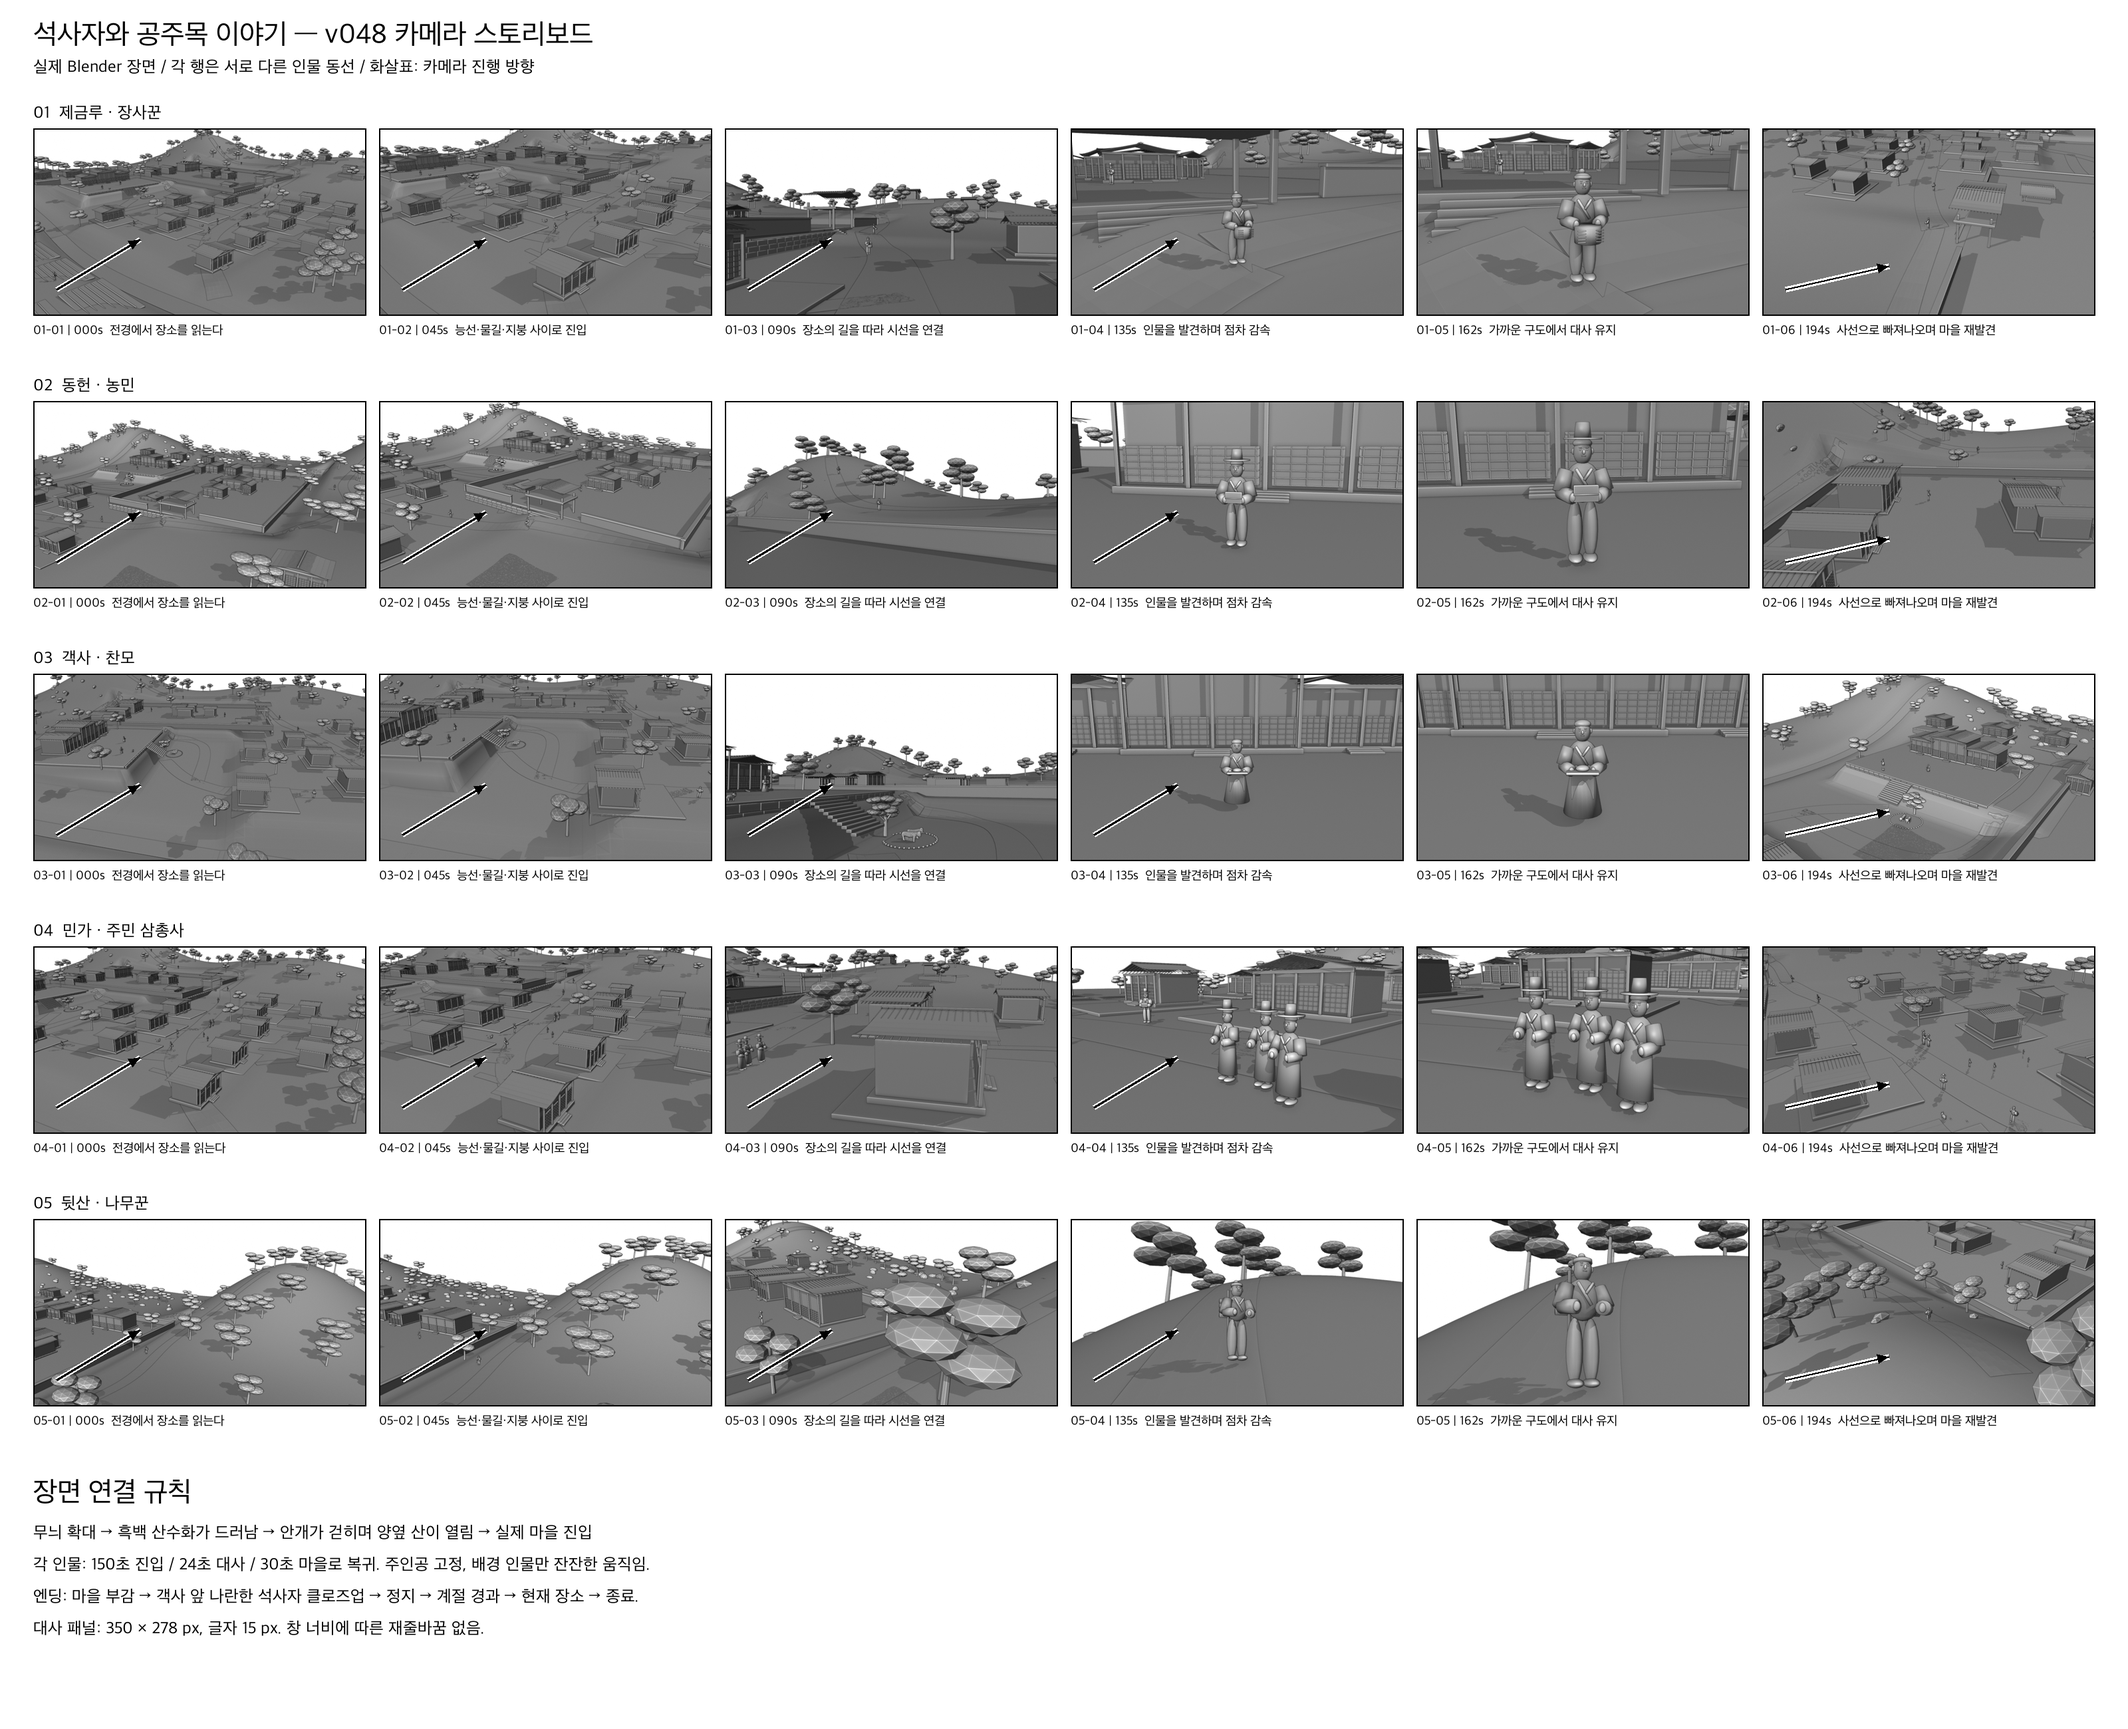
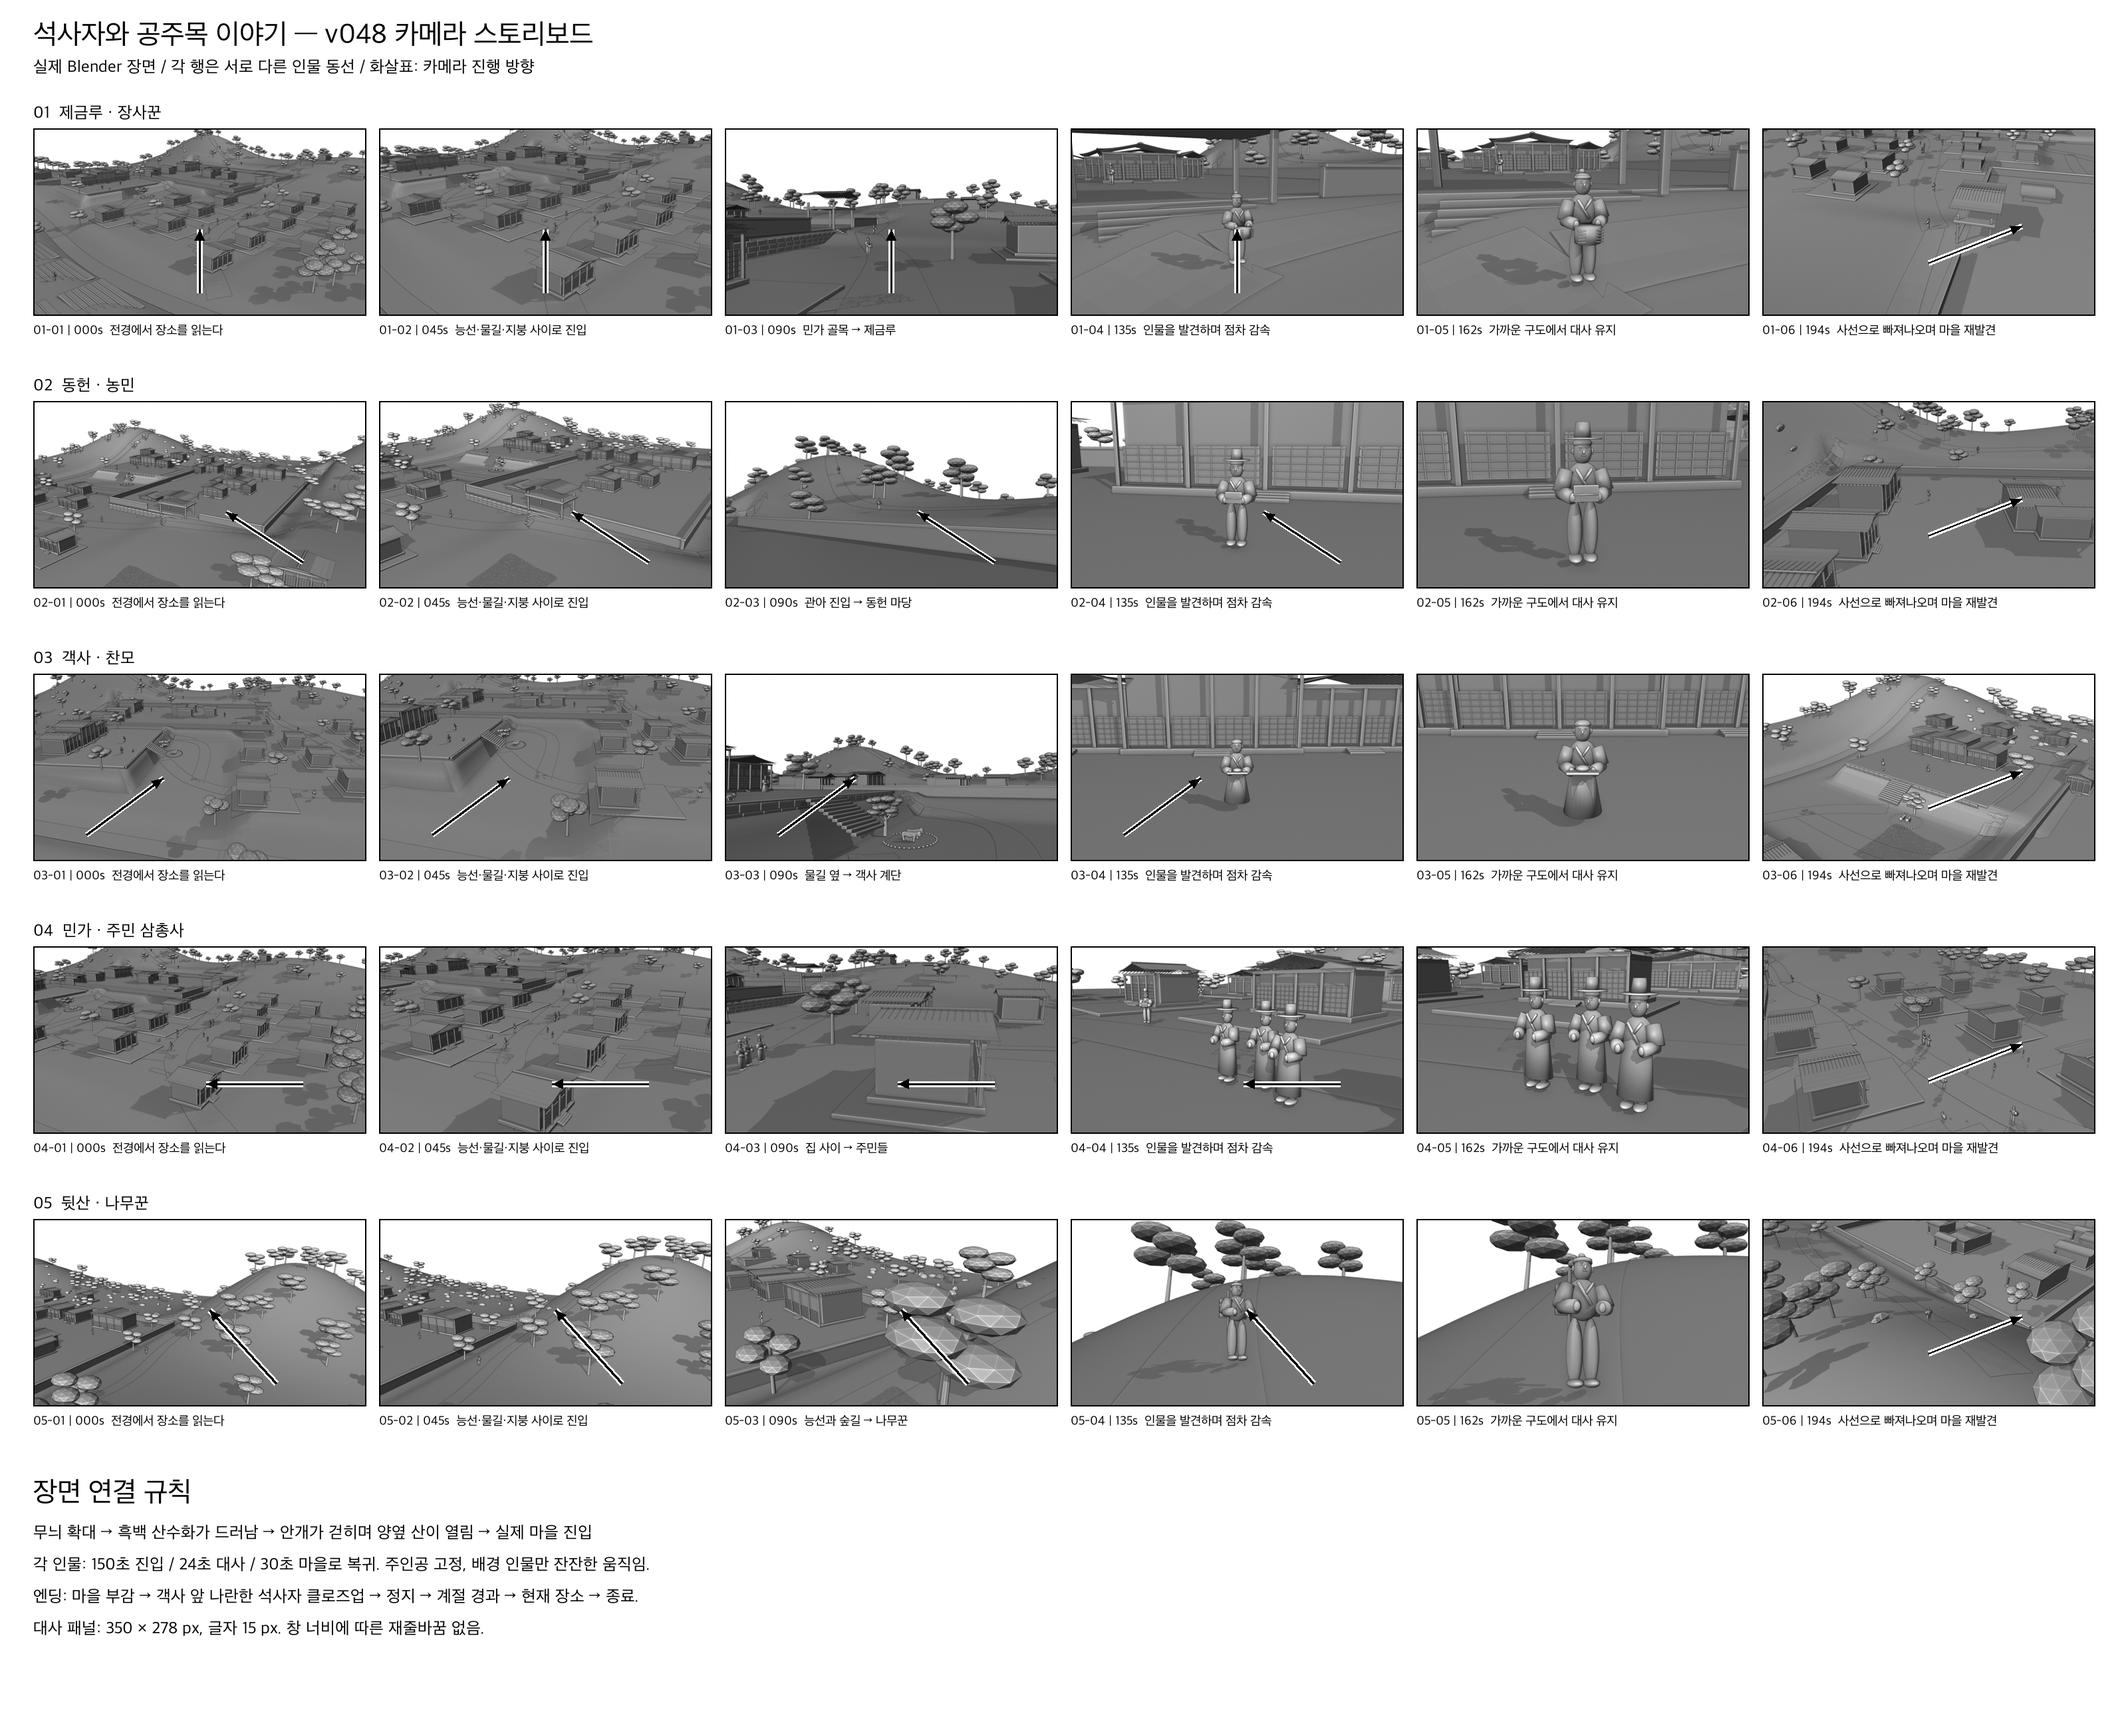
Refine storyboard direction arrows and story replay

diff --git a/versions/blender-v048/assets/cinematic-story.js b/versions/blender-v048/assets/cinematic-story.js
@@ -7,7 +7,7 @@ const lines=['그 근처에서 이상한 돌짐승 두 마리를 보았습니다
 const introductions=['이 문을 지나면 관아입니다. 나는 장에 물건을 내다 팔러 올 때면 이 앞을 지나곤 하지요.','나는 이곳에 논밭 일로 왔습니다. 내 땅이라고 생각했던 곳의 경계가 달라졌으니, 여기까지 와서 사정을 이야기해야 합니다.','객사에는 왕을 상징하는 궐패를 모시고, 먼 곳에서 온 관리들이 머무릅니다. 손님들 먹을거리를 마련하러 나는 이 앞을 오가지요.','우리에게 하루는 늘 비슷했습니다. 서로 투닥거리며 하루를 보내고 집으로 돌아가지요.','산에 올라 마을을 내려다보면 관아도 집도 길도 한눈에 들어옵니다. 떨어져 보이던 곳들이 하나로 이어지지요.'];
 let running=false,active=false,elapsed=0,last=0,chapter=-1;const seek=control.querySelector('#cinemaSeek');seek.oninput=()=>{elapsed=Number(seek.value);chapter=-1;renderStory();};const play=control.querySelector('#cinemaPlay'),stop=control.querySelector('#cinemaStop');
 function emit(name,detail){document.dispatchEvent(new CustomEvent(name,{detail}));}
-play.onclick=()=>{if(!active){active=true;elapsed=0;chapter=-1;document.body.classList.add('cinema-running');stop.hidden=false;seek.hidden=false;emit('stage-navigate','terrain');}running=!running;play.textContent=running?'일시 정지':'이어서 재생';};
+play.onclick=()=>{if(elapsed>=1254)active=false;if(!active){active=true;elapsed=0;chapter=-1;document.body.classList.add('cinema-running');stop.hidden=false;seek.hidden=false;emit('stage-navigate','terrain');}running=!running;play.textContent=running?'일시 정지':'이어서 재생';};
 stop.onclick=()=>{active=running=false;panel.hidden=true;stop.hidden=true;seek.hidden=true;play.textContent='스토리 재생';document.body.classList.remove('cinema-running','surface-morph');emit('story-home');emit('stage-navigate','intro');};
 window.addEventListener('wheel',e=>{if(active){e.preventDefault();e.stopImmediatePropagation();}},{capture:true,passive:false});
-function tick(now){requestAnimationFrame(tick);const dt=last?Math.min(.1,(now-last)/1000):0;last=now;if(!running||document.hidden)return;elapsed+=dt;seek.value=elapsed;renderStory();}function renderStory(){const index=Math.floor(elapsed/222),t=elapsed%222;if(index<5){document.body.dataset.stage='terrain';document.body.style.setProperty('--surface-opacity','0');if(chapter!==index){chapter=index;emit('capture-story-motif',{region:['eyes','head','mane','mouth','back'][index],subject:index===1||index===3?'female':'male'});}emit('ink-landscape-frame',{index,progress:t<18?t/18*.235:.3});emit('blender-route-frame',{index,time:Math.max(0,t-18),opacity:t<14?0:Math.min(1,(t-14)/4)});panel.hidden=t<168||t>192;panel.innerHTML='<small>가상 증언</small><h2>'+titles[index]+'</h2><p>'+(t<180?introductions[index]:lines[index])+'</p>';}else{emit('ink-landscape-frame',{index:0,progress:1});panel.hidden=true;document.body.dataset.stage='memory';const p=Math.min(1,(elapsed-1110)/144);emit('blender-ending-frame',p);if(p===1){running=false;play.textContent='이어서 재생';}}}requestAnimationFrame(tick);
+function tick(now){requestAnimationFrame(tick);const dt=last?Math.min(.1,(now-last)/1000):0;last=now;if(!running||document.hidden)return;elapsed+=dt;seek.value=elapsed;renderStory();}function renderStory(){const index=Math.floor(elapsed/222),t=elapsed%222;if(index<5){document.body.dataset.stage='terrain';document.body.style.setProperty('--surface-opacity','0');if(chapter!==index){chapter=index;emit('capture-story-motif',{region:['eyes','head','mane','mouth','back'][index],subject:index===1||index===3?'female':'male'});}emit('ink-landscape-frame',{index,progress:t<18?t/18*.235:.3});emit('blender-route-frame',{index,time:Math.max(0,t-18),opacity:t<14?0:Math.min(1,(t-14)/4)});panel.hidden=t<168||t>192;panel.innerHTML='<small>가상 증언</small><h2>'+titles[index]+'</h2><p>'+(t<180?introductions[index]:lines[index])+'</p>';}else{emit('ink-landscape-frame',{index:0,progress:1});panel.hidden=true;document.body.dataset.stage='memory';const p=Math.min(1,(elapsed-1110)/144);emit('blender-ending-frame',p);if(p===1){running=false;play.textContent='다시 재생';}}}requestAnimationFrame(tick);
